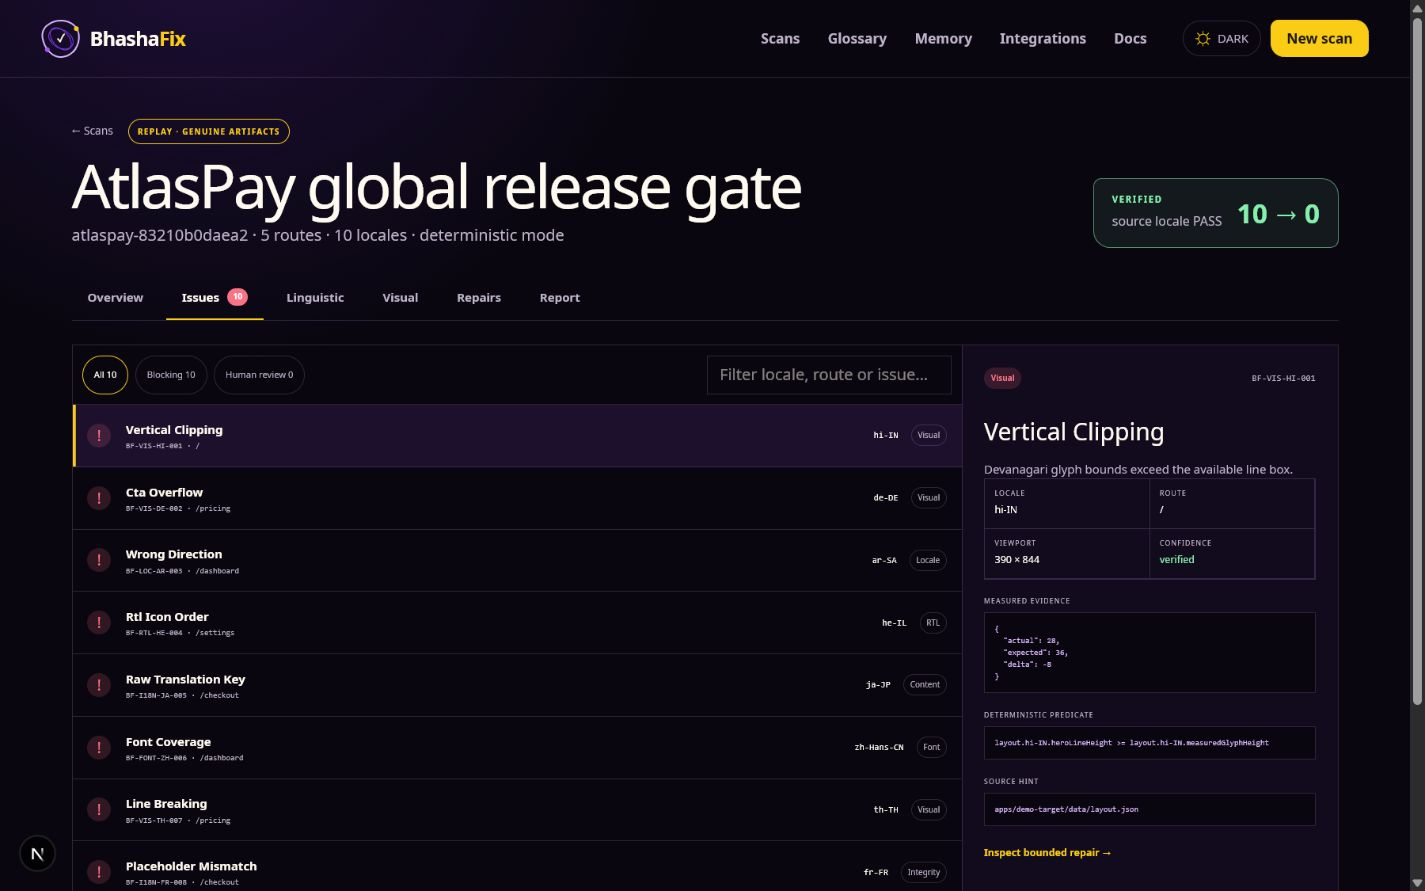
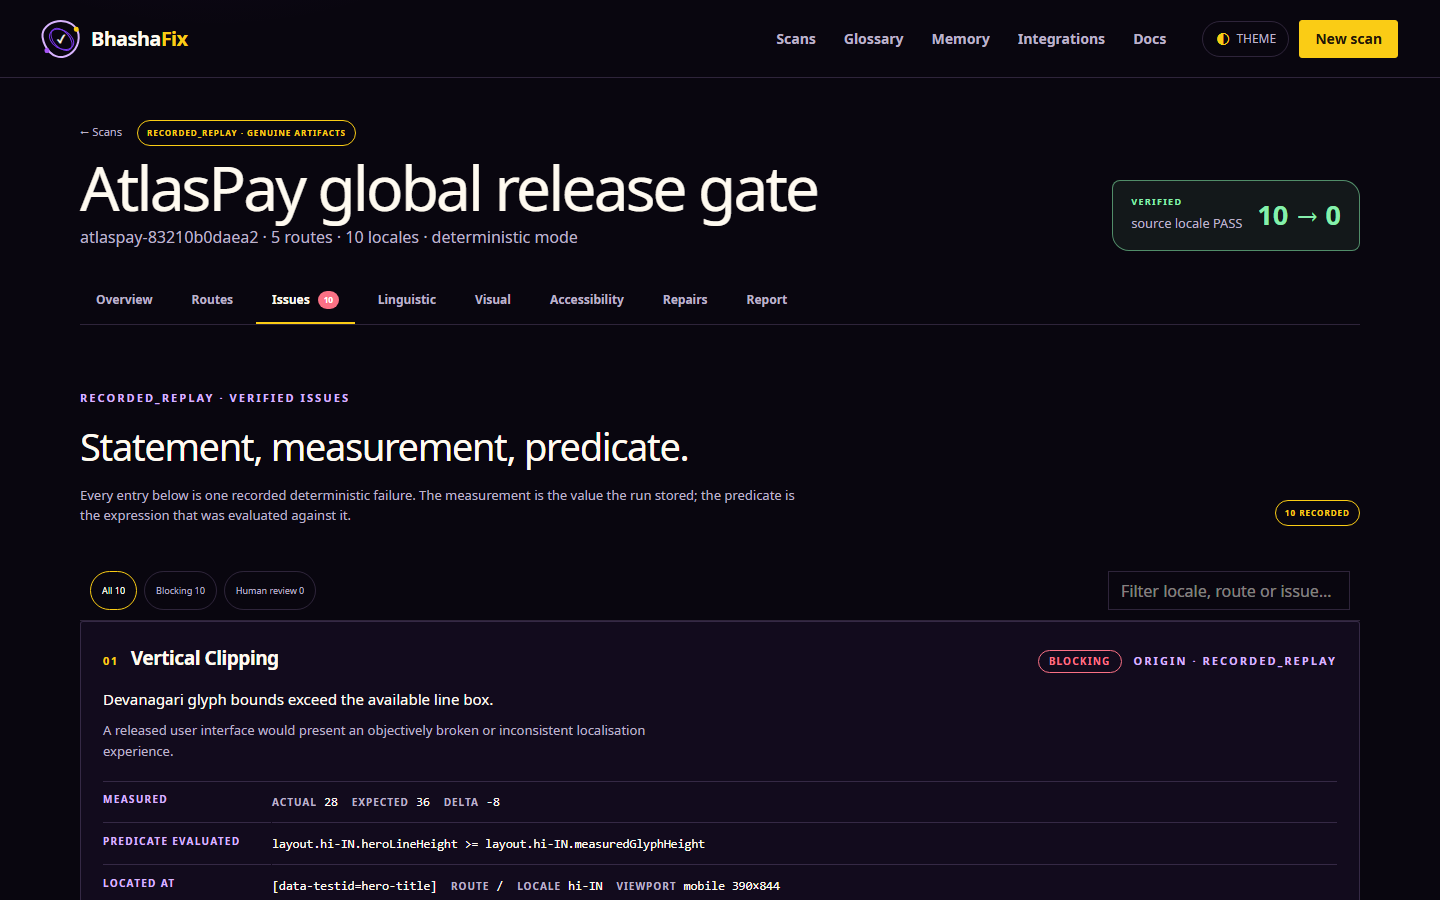
docs: rebuild the demo script and screenshots from the final verified run
The submission screenshots were frames of the previous design, and six of
them were left over from an even earlier one. scripts/capture-submission-
screenshots.ts now captures all eight from the built application, asserts
each frame is a real render rather than a loading state, fails on any
console error, and deletes the stale files. Captured: 8 frames, 0 console
errors.

The 90 second script is rewritten around the evidence that now exists:
a real browser scan of a public site, one measured visual failure with
its predicate, one locale-integrity failure, the three-file Next.js
source repair with git apply --check passing, the identical rerun going
6 blocking to 0 with the source locale unchanged, the packed CLI, and an
external MCP client. It also states what the demo does not claim.

diff --git a/scripts/capture-submission-screenshots.ts b/scripts/capture-submission-screenshots.ts
@@ -1,0 +1,165 @@
+/**
+ * Capture the submission screenshots from the running product.
+ *
+ * Every image here is a real Chromium capture of the built application at the
+ * moment the deck is prepared. Nothing is drawn, mocked or reused from an
+ * earlier design.
+ */
+import { mkdir, readdir, stat, unlink, writeFile } from "node:fs/promises";
+import path from "node:path";
+import { chromium, type Page } from "@playwright/test";
+
+const root = process.cwd();
+const outputDirectory = path.join(root, "submission", "screenshots");
+const baseUrl = process.env.BHASHAFIX_CAPTURE_BASE_URL ?? "http://127.0.0.1:3000";
+
+const DESKTOP = { width: 1440, height: 900 };
+const MOBILE = { width: 390, height: 844 };
+
+type Shot = {
+  file: string;
+  route: string;
+  viewport: { width: number; height: number };
+  theme: "light" | "dark";
+  /** Wait for this to exist before capturing, so no shot is of a loading state. */
+  waitFor?: string;
+  prepare?: (page: Page) => Promise<void>;
+};
+
+const SHOTS: Shot[] = [
+  { file: "01-landing-dark.png", route: "/", viewport: DESKTOP, theme: "dark", waitFor: "main" },
+  { file: "02-landing-light.png", route: "/", viewport: DESKTOP, theme: "light", waitFor: "main" },
+  { file: "03-landing-mobile.png", route: "/", viewport: MOBILE, theme: "dark", waitFor: "main" },
+  {
+    file: "04-scan-workspace.png",
+    route: "/scan/atlaspay-replay",
+    viewport: DESKTOP,
+    theme: "dark",
+    waitFor: "main",
+  },
+  {
+    file: "05-proof-report.png",
+    route: "/scan/atlaspay-replay/report",
+    viewport: DESKTOP,
+    theme: "dark",
+    waitFor: "main",
+  },
+  {
+    file: "06-bounded-repair.png",
+    route: "/scan/atlaspay-replay/repairs",
+    viewport: DESKTOP,
+    theme: "dark",
+    waitFor: "main",
+  },
+  {
+    file: "07-issue-evidence.png",
+    route: "/scan/atlaspay-replay/issues",
+    viewport: DESKTOP,
+    theme: "dark",
+    waitFor: "main",
+  },
+  {
+    file: "08-synthetic-preview.png",
+    route: "/playground",
+    viewport: DESKTOP,
+    theme: "dark",
+    waitFor: "main",
+  },
+];
+
+await mkdir(outputDirectory, { recursive: true });
+
+const browser = await chromium.launch();
+const captured: Array<{ file: string; bytes: number }> = [];
+const consoleErrors: Array<{ route: string; message: string }> = [];
+
+try {
+  for (const shot of SHOTS) {
+    const context = await browser.newContext({
+      viewport: shot.viewport,
+      colorScheme: shot.theme,
+      locale: "en-GB",
+    });
+    // The product stores its theme in localStorage, so the context colour
+    // scheme alone does not switch it. Seed it before the first paint.
+    await context.addInitScript((theme: string) => {
+      // This also runs inside the sandboxed preview iframe, which has no
+      // same-origin access and throws on localStorage. Ignore it there.
+      try {
+        window.localStorage.setItem("bhashafix-theme", theme);
+      } catch {
+        /* sandboxed frame */
+      }
+    }, shot.theme);
+    const page = await context.newPage();
+    page.on("console", (message) => {
+      if (message.type() === "error") {
+        consoleErrors.push({ route: shot.route, message: message.text().slice(0, 300) });
+      }
+    });
+    page.on("pageerror", (error) => {
+      consoleErrors.push({ route: shot.route, message: error.message.slice(0, 300) });
+    });
+
+    await page.goto(new URL(shot.route, baseUrl).href, { waitUntil: "domcontentloaded" });
+    if (shot.waitFor) await page.waitForSelector(shot.waitFor, { timeout: 20_000 });
+    await shot.prepare?.(page);
+    await page.waitForTimeout(900);
+
+    const file = path.join(outputDirectory, shot.file);
+    await page.screenshot({ path: file, fullPage: false });
+    const { size } = await stat(file);
+    if (size < 10_000) {
+      throw new Error(`${shot.file} is only ${size} bytes; the page probably did not render.`);
+    }
+    captured.push({ file: shot.file, bytes: size });
+    await context.close();
+  }
+} finally {
+  await browser.close();
+}
+
+// Remove images from earlier designs so the deck cannot pick up a stale frame.
+const STALE = [
+  "lab-mobile.png",
+  "lab-verified.png",
+  "landing-desktop.png",
+  "landing-mobile.png",
+  "report-comparison.png",
+  "report-summary.png",
+];
+const present = new Set(await readdir(outputDirectory));
+const removed: string[] = [];
+for (const file of STALE) {
+  if (!present.has(file)) continue;
+  await unlink(path.join(outputDirectory, file));
+  removed.push(file);
+}
+
+await writeFile(
+  path.join(root, "artifacts", "screenshot-capture.json"),
+  `${JSON.stringify(
+    {
+      generatedAt: new Date().toISOString(),
+      baseUrl,
+      captured,
+      removedStale: removed,
+      consoleErrors,
+    },
+    null,
+    2,
+  )}\n`,
+);
+
+if (consoleErrors.length > 0) {
+  console.error(
+    `Console errors during capture:\n${consoleErrors
+      .map((entry) => `  ${entry.route}: ${entry.message}`)
+      .join("\n")}`,
+  );
+  process.exit(1);
+}
+
+console.log(
+  `SCREENSHOTS captured ${captured.length} real frames from ${baseUrl}; removed ${removed.length} stale file(s); console errors 0`,
+);

diff --git a/submission/DEMO_SCRIPT_90_SECONDS.md b/submission/DEMO_SCRIPT_90_SECONDS.md
@@ -1,48 +1,166 @@
-# BhashaFix — 90-second demo
+# BhashaFix — 90 second demonstration
 
-## 0–12 seconds — the gap
+Every value below comes from a recorded run in this repository. Nothing is
+staged, re-enacted or approximated. The receipts are
+`artifacts/nextjs-repair-proof.json`, `artifacts/benchmark.json`,
+`artifacts/real-site-scans.json`, `artifacts/pack-verify/receipt.json` and
+`artifacts/mcp-stdio-receipt.json`.
 
-Open AtlasPay broken in Arabic, Hindi, and German.
+---
 
-“These strings were translated. The product is still broken: direction,
-glyphs, layout, placeholders, terminology, metadata.”
+## 0:00 – 0:10 · The problem
 
-## 12–24 seconds — the product
+Open `https://bhashafix.vercel.app`.
 
-Open `/`.
+> "AI can generate every language. It cannot tell you the product still works
+> in them. BhashaFix renders each locale in a real browser and measures what
+> breaks."
 
-“BhashaFix is the verification harness between AI translation and production.
-It tests the rendered product through web, CLI, CI, or MCP.”
+The homepage is one input and one action: paste a URL, or connect a project.
 
-## 24–42 seconds — evidence
+---
 
-Open `/scan/atlaspay-replay`.
+## 0:10 – 0:30 · A real browser scan
 
-“This is a clearly labelled replay of a genuine deterministic run: five routes,
-ten locales, three viewports, ten stable failures. Every issue has a selector,
-source hint, measurement, screenshot context, and pass predicate.”
+Run, from a terminal:
 
-Change locale and viewport; toggle **Before repair** to **After repair**.
+```bash
+pnpm bhashafix scan --url https://en.wikipedia.org/wiki/Localization --locales en-GB,he-IL --routes "/wiki/Localization" --viewports mobile --verbose
+```
 
-## 42–60 seconds — bounded repair
+Chromium launches. Routes come from the rendered DOM, not from guesswork. Each
+render writes a real PNG and a DOM snapshot, and the scan is persisted under its
+own ID that another process can read back.
 
-Open **Repairs**.
+Recorded run — `artifacts/real-site-scans.json`:
 
-“The repair requires a scan ID and issue IDs, can touch only three allowlisted
-JSON files, rejects traversal and symlinks, and shows the unified diff before
-application. A model cannot mark itself correct.”
+| Target | Scan ID | Renders | Screenshots | Issues |
+| --- | --- | ---: | ---: | ---: |
+| Wikipedia | `browser-8182aab1-c3a2-4296-8380-c9b22aab4a3a` | 4 | 4 | 16 |
+| MDN Web Docs | `browser-511d535a-8dd5-4614-884c-6efbfe3fd6b6` | 6 | 6 | 9 |
 
-## 60–77 seconds — identical verification
+---
 
-Return to **Overview**, then open **Report**.
+## 0:30 – 0:45 · Two findings, both measured
 
-“The exact predicates rerun. Ten blocking failures become zero. en-GB
-regression passes. Accessibility and console checks do not regress.”
+**A measured visual failure**, from the Next.js proof run:
 
-## 77–90 seconds — portable proof
+```
+BF-VIS-TEXT-OVERFLOW-X  de-DE  [data-testid="cta-primary"]
+  text        "Kostenlos mit Meridian starten"
+  scrollWidth 245
+  clientWidth 168
+  overflowPx  77
+  overflowX   hidden        the German label is clipped
+  predicate   element.scrollWidth <= element.clientWidth + 2
+```
 
-Show the JSON, HTML, SARIF, JUnit, CSV, patch, and proof downloads.
+**A locale-integrity failure**, on the same page set:
 
-“General coding agents reason broadly. BhashaFix gives them a specialised,
-reproducible localisation harness. Every language. Every viewport. Evidence
-before release.”
+```
+BF-LOC-DIR-MISSING  ar-SA  html
+  declaredDir  "ltr"
+  expectedDir  "rtl"
+  script       Arab
+  predicate    document.documentElement.dir === 'rtl' when the locale script is RTL
+```
+
+Each carries the number that produced it and the predicate that was evaluated.
+Neither is a model's opinion.
+
+---
+
+## 0:45 – 1:05 · A real source repair
+
+Switch to the Next.js project at `fixtures/nextjs-app`:
+
+```bash
+pnpm repair:nextjs
+```
+
+Three bounded strategies touch three real files:
+
+```diff
+--- a/fixtures/nextjs-app/app/[locale]/layout.tsx
++++ b/fixtures/nextjs-app/app/[locale]/layout.tsx
+-    <html lang="en">
++    <html lang={locale} dir={textDirection(locale)}>
+
+--- a/fixtures/nextjs-app/app/globals.css
++++ b/fixtures/nextjs-app/app/globals.css
+ .cta {
+-  width: 168px;
+-  white-space: nowrap;
++  max-width: 168px;
+
+--- a/fixtures/nextjs-app/messages/ja-JP.json
++  "cta.primary": "無料で始める"
+```
+
+The patch is a genuine unified diff, not a summary of one:
+
+```
+$ git apply --check artifacts/nextjs-repair.diff
+$ echo $?
+0
+```
+
+3 files, 10 changed lines, diff hash `f38acc25…`. Dry-run is the default, each
+file is pinned by SHA-256 before it is written, and a rollback snapshot is taken
+first.
+
+---
+
+## 1:05 – 1:20 · Identical verification
+
+The project is rebuilt and the **same scan configuration** runs again:
+
+| | before | after |
+| --- | ---: | ---: |
+| Blocking issues | **6** | **0** |
+| Source locale `en-GB` | 0 blocking | 0 blocking |
+| New blocking issues | — | **0** |
+
+Scan IDs `browser-08293a6a-4b7d-4be0-a7e8-1323900a6284` →
+`browser-c0101b7e-a122-4a36-bf70-3ea2c1ab1137`. Both used the same routes,
+locales, viewport and axe setting, so the comparison is like for like.
+
+---
+
+## 1:20 – 1:30 · One engine, three surfaces
+
+**CLI, installed outside the monorepo** — `artifacts/pack-verify/receipt.json`:
+
+```
+clean consumer   fresh OS temp directory outside the repository
+cliDoctor        PASS      browser available: true
+fixture scan     10 blocking  →  0 after repair
+```
+
+**MCP, driven by an external client** — `artifacts/mcp-stdio-receipt.json`:
+
+```
+transport   spawned STDIO process
+server      packages/mcp/dist/bin.js
+tools       18     resources 4     prompts 5
+baseline    10 blocking  →  verified after repair
+```
+
+Close on the measured accuracy, from `artifacts/benchmark.json`:
+
+> 70 labelled defects, 12 rule families, 12 locales, 288 real browser renders.
+> Recall 100%. Precision 100%. Zero false positives on the clean variant.
+
+> "AI generates every language. BhashaFix proves the product still works."
+
+---
+
+## What the demo deliberately does not claim
+
+- The hosted Vercel scan is `HTTP_PREFLIGHT`: static HTTP only, no browser. A
+  Vercel function cannot host a render matrix, so browser work runs in the CLI
+  or through a worker at `BHASHAFIX_BROWSER_WS_ENDPOINT`.
+- AtlasPay stays in the product as `RECORDED_REPLAY`. It is a genuine fixture
+  run, but it is not a live scan and is not the headline proof.
+- The real-site scans prove operability, not precision. Those targets carry no
+  ground-truth labels, so no accuracy figure is derived from them.
